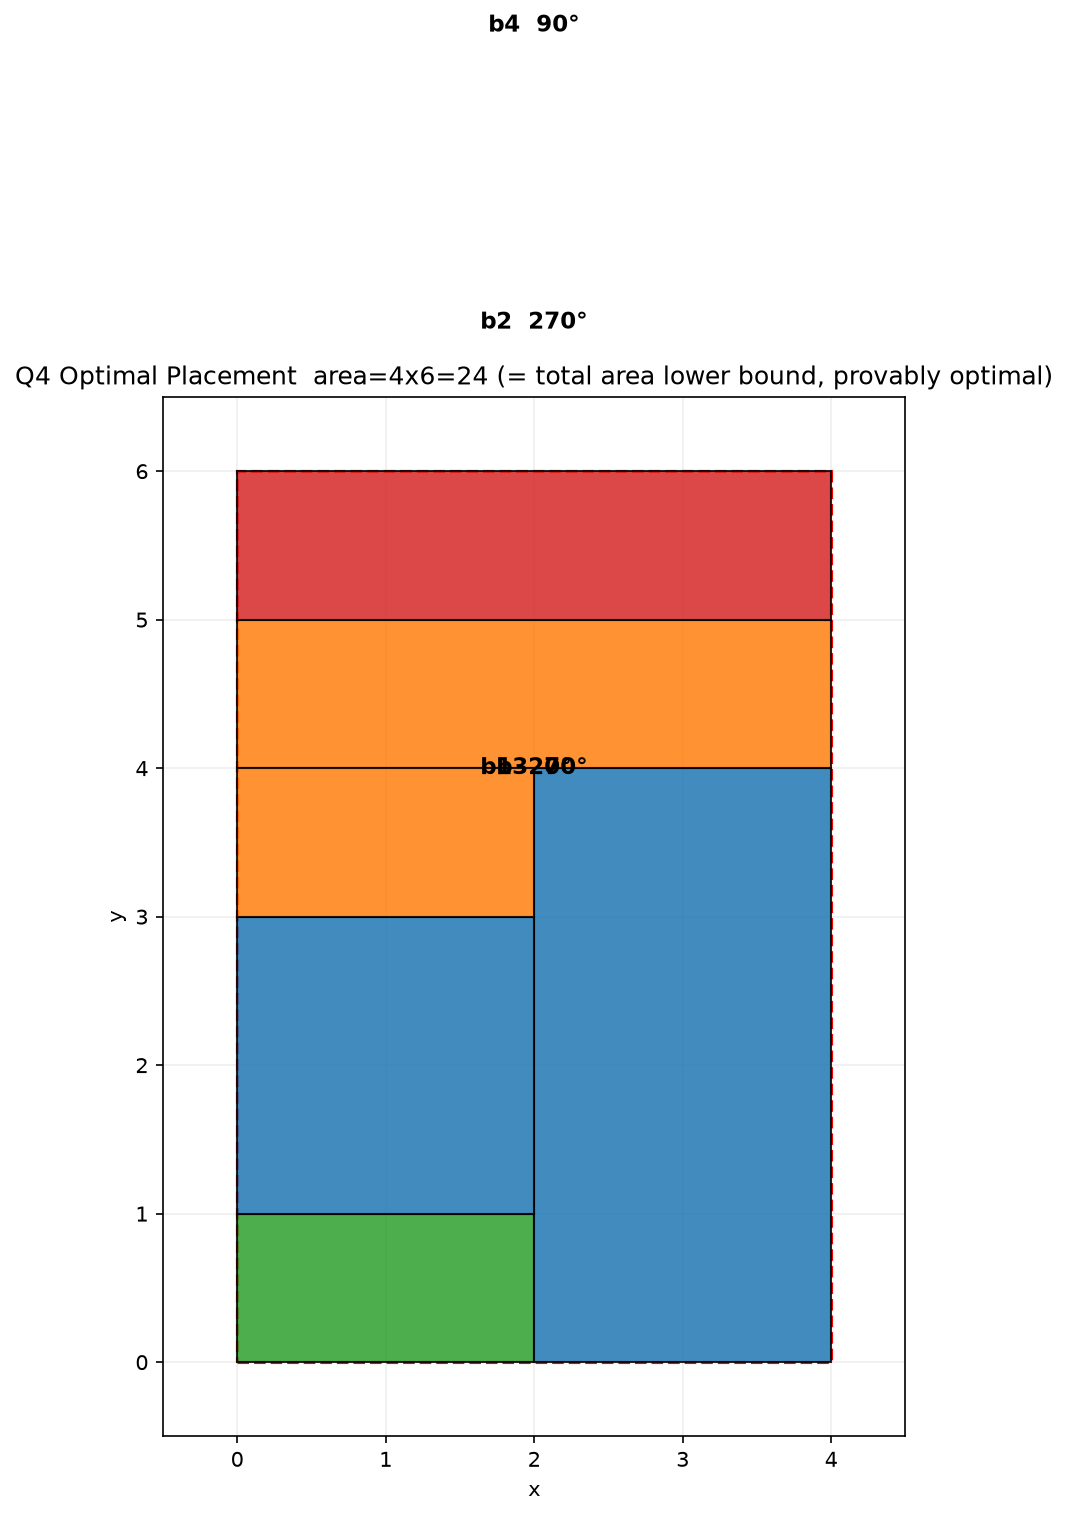
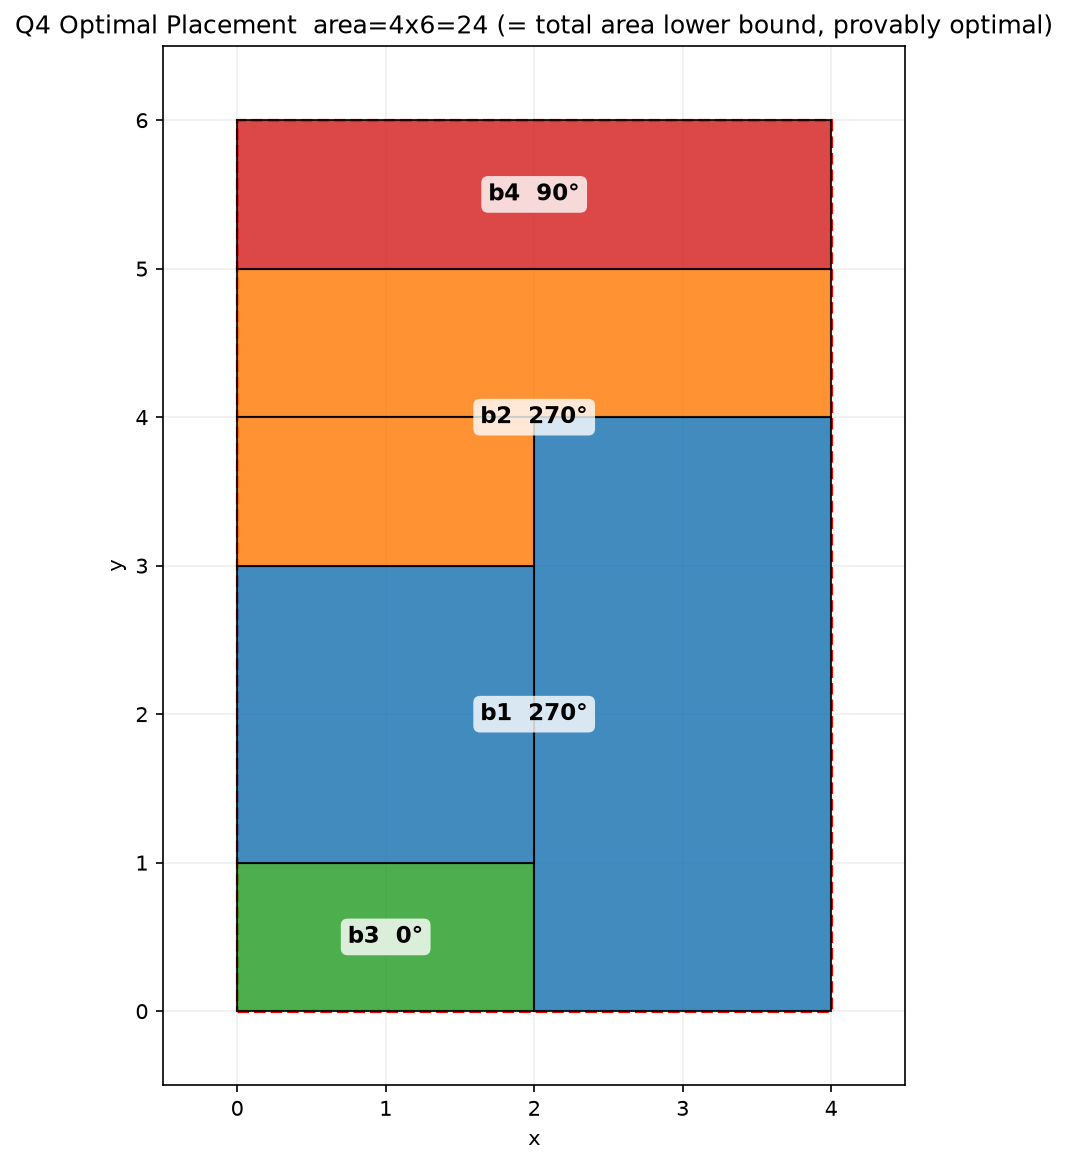
修复 q4_optimal 图标签重合：bbox 中心定位 + 白色背景框
- 根因：标签硬编码 (x0+2, y0+4)，b3(2x1@(0,0)) 与 b1(4x4@(0,0))
  共用同一锚点导致文字完全重叠
- 修复：按各模块实际 bbox 中心定位（b1:(2,2) b2:(2,4) b3:(1,0.5) b4:(2,5.5)），
  互不重叠；标签加白色半透明圆角背景框，贴近图形也可读
- 同步更新 图表/Q4/图/ 与 q4/visualization/figs/

diff --git a/q4/visualization/plot_q4.py b/q4/visualization/plot_q4.py
@@ -31,15 +31,21 @@ def main():
         rot = int(r["rotation_deg"])
         x0, y0 = int(r["x"]), int(r["y"])
         color = COLORS[name]
+        rects = []
         for part in r["rects"].split(";"):
             rx, ry, rw, rh = map(int, part.split(","))
+            rects.append((rx, ry, rw, rh))
             ax.add_patch(Rectangle((x0 + rx, y0 + ry), rw, rh,
                                    facecolor=color, edgecolor="black",
                                    linewidth=1.0, alpha=0.85, zorder=2))
-        bx = x0 + 2
-        by = y0 + 4
-        ax.text(bx, by, f"{name}  {rot}\N{DEGREE SIGN}", fontsize=11,
-                ha="center", va="center", fontweight="bold", zorder=3)
+        w = max(rx + rw for rx, ry, rw, rh in rects)
+        h = max(ry + rh for rx, ry, rw, rh in rects)
+        cx = x0 + w / 2.0
+        cy = y0 + h / 2.0
+        ax.text(cx, cy, f"{name}  {rot}\N{DEGREE SIGN}", fontsize=11,
+                ha="center", va="center", fontweight="bold", zorder=3,
+                bbox=dict(boxstyle="round,pad=0.3", fc="white", ec="none",
+                          alpha=0.8))
 
     maxx = max(int(r["x"]) + 4 for r in rows)
     maxy = 0
